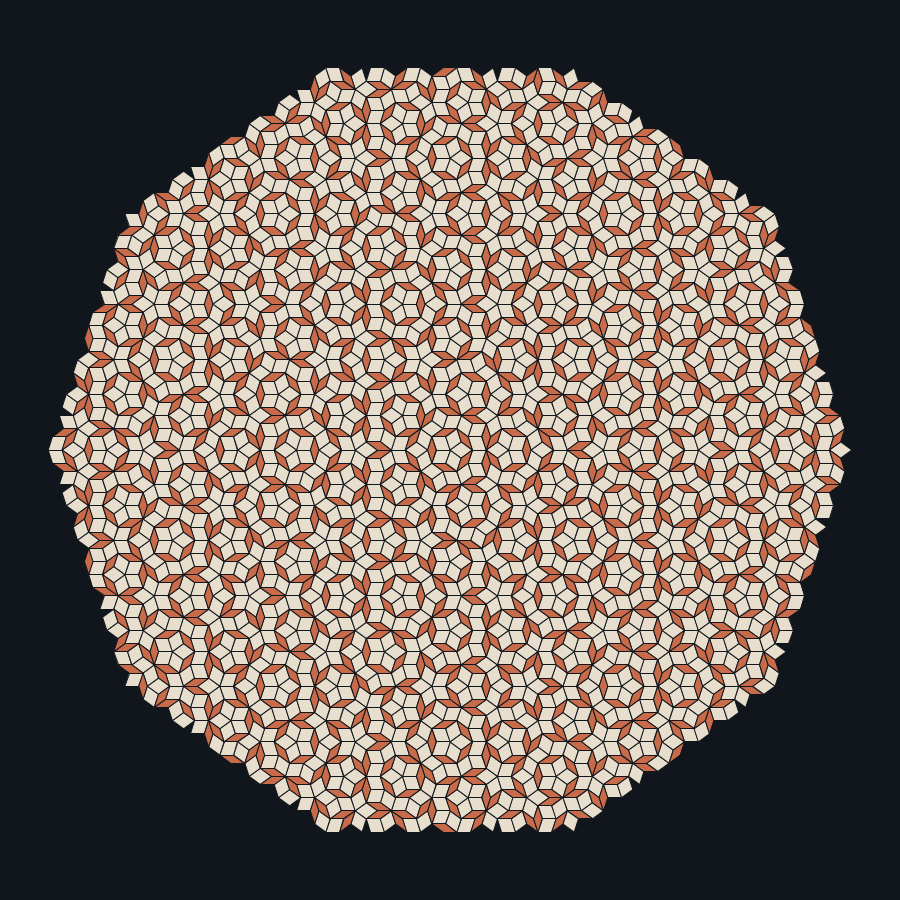
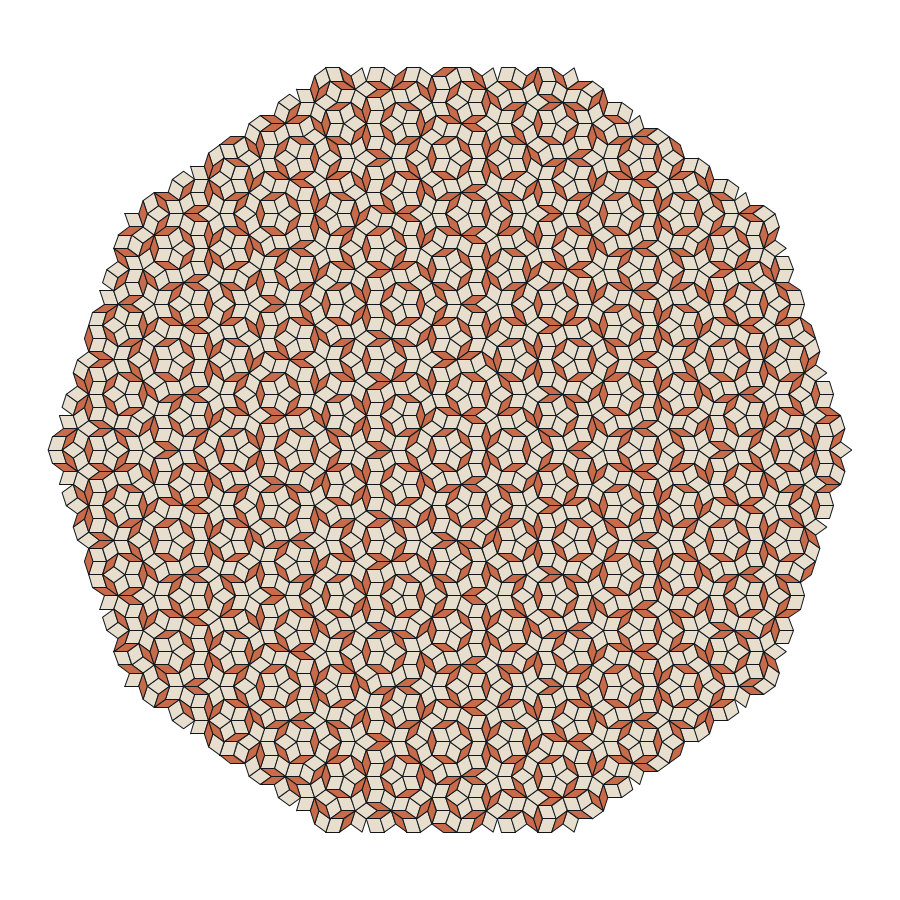
Render tilings on white paper

diff --git a/src/pdf.cpp b/src/pdf.cpp
@@ -32,7 +32,8 @@ struct Colour {
     double blue;
 };
 
-constexpr Colour canvas{16.0 / 255.0, 22.0 / 255.0, 27.0 / 255.0};
+constexpr Colour paper{1.0, 1.0, 1.0};
+constexpr Colour ink{16.0 / 255.0, 22.0 / 255.0, 27.0 / 255.0};
 constexpr Colour limestone{231.0 / 255.0, 222.0 / 255.0, 205.0 / 255.0};
 constexpr Colour copper{200.0 / 255.0, 107.0 / 255.0, 74.0 / 255.0};
 
@@ -87,9 +88,9 @@ void append_object(std::string& document, std::vector<std::size_t>& offsets,
     std::ostringstream content;
     content.imbue(std::locale::classic());
     content << std::fixed << std::setprecision(4) << "q\n";
-    set_colour(content, canvas, "rg");
+    set_colour(content, paper, "rg");
     content << "0 0 " << page_size << ' ' << page_size << " re f\n";
-    set_colour(content, canvas, "RG");
+    set_colour(content, ink, "RG");
     content << stroke_width << " w\n1 J\n1 j\n";
 
     for (const auto kind : {Kind::thick, Kind::thin}) {

diff --git a/tests/test.cpp b/tests/test.cpp
@@ -121,7 +121,9 @@ void test_pdf() {
     CHECK(pdf.find("/MediaBox [0 0 720 720]") != std::string::npos);
     CHECK(pdf.find("/Resources << >>") != std::string::npos);
     CHECK(pdf.find("/Subject (Sun seed at depth 3)") != std::string::npos);
-    CHECK(pdf.find("0.0627 0.0863 0.1059") != std::string::npos);
+    CHECK(pdf.find("1.0000 1.0000 1.0000 rg\n0 0 720.0000 720.0000 re f") !=
+          std::string::npos);
+    CHECK(pdf.find("0.0627 0.0863 0.1059 RG") != std::string::npos);
     CHECK(pdf.find("0.9059 0.8706 0.8039") != std::string::npos);
     CHECK(pdf.find("0.7843 0.4196 0.2902") != std::string::npos);
     CHECK(pdf.find("nan") == std::string::npos);
